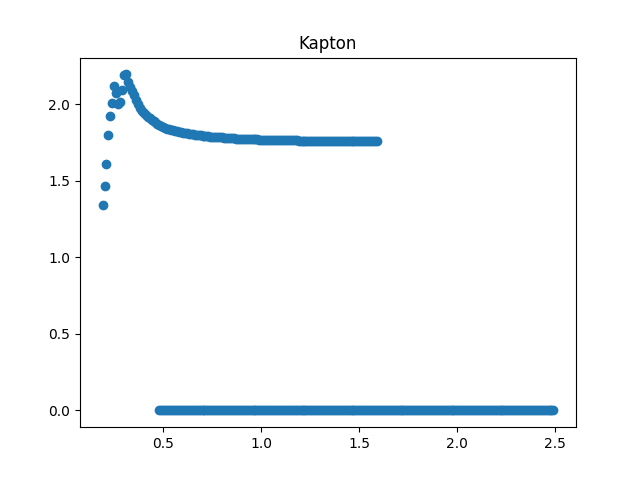
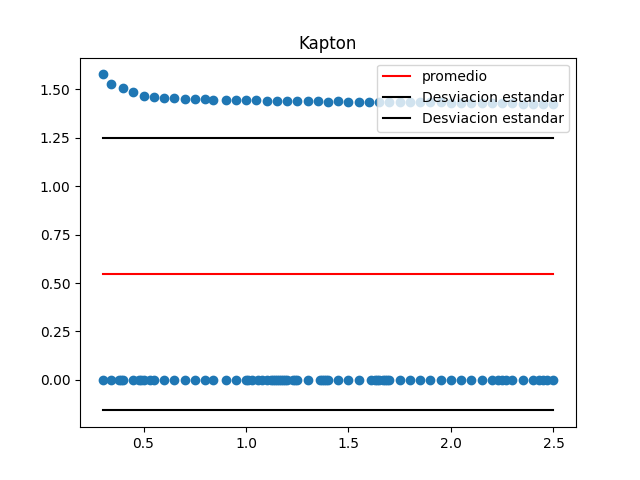
Parte 1

diff --git a/Taller_1 - Parte 1/Indices_refraccion.py b/Taller_1 - Parte 1/Indices_refraccion.py
@@ -1,4 +1,6 @@
 import matplotlib.pyplot as plt
+import numpy as np
+import pandas as pd
 
 def tuplas_longitud_onda(archivo):
     arreglo = []
@@ -20,23 +22,85 @@ def tuplas_longitud_onda(archivo):
     return arreglo
 
 tuplas_plastico = tuplas_longitud_onda('./Plásticos/French.yml')
-#tuplas_plastico = tuplas_longitud_onda('./Combustible/Wang-20C.yml')
+tuplas_plastico = tuplas_longitud_onda('./Combustible/Wang-20C.yml')
+
+
+
+
+#Promedio n
+
+def promedio(n:list):
+    resultado = 0
+
+    for promedio in n:
+        resultado += promedio[1]
+    resultado = resultado/len(n)
+    return resultado
+
+promedio_n = promedio(tuplas_plastico)
+
+#Desviacion estandar de muestra
+def desviacion_estandar(n:list, p):
+
+    suma = 0
+    for i in range(len(n)):
+        resta = (n[i][1] - p)**2
+        suma += resta
+    division = suma/(len(n) - 1)
+    raiz = division**(1/2)
+    return raiz
+
+desviacion_plastico = desviacion_estandar(tuplas_plastico, promedio_n)
+
 
 #Grafica indice de refraccion
 fig,ax = plt.subplots()
 ax.set_title('Kapton')
+rango = np.linspace(min([tuplas[0] for tuplas in tuplas_plastico]),max([tuplas[0] for tuplas in tuplas_plastico]),100)
+ax.plot(rango,np.full_like(rango,promedio_n),color='r',label = 'promedio')
+ax.plot(rango,np.full_like(rango,promedio_n - desviacion_plastico),color='k',label = 'Desviacion estandar')
+ax.plot(rango,np.full_like(rango,promedio_n + desviacion_plastico),color='k',label = 'Desviacion estandar')
 ax.scatter([tuplas[0] for tuplas in tuplas_plastico],[tuplas[1] for tuplas in tuplas_plastico])
-
-#Promedio n
-resultado = 0
-for promedio in tuplas_plastico:
-    resultado += promedio[1]
-resultado = resultado/len(tuplas_plastico)
-print(resultado)
-
-#Desviacion estandar
-
-
-
+ax.legend()
 plt.savefig('Kapton.png')
 
+
+lista_elementos = pd.read_csv('./indices_refraccion.csv')
+
+#Funcion en general
+def funcion_general(lista_elementos:pd.DataFrame):
+
+    
+
+
+    for i in range(len(lista_elementos)):
+        arreglo_general = tuplas_longitud_onda(lista_elementos.iloc[i][0] + '/' + lista_elementos.iloc[i][3].split('/')[-1])
+        promedio_general = promedio(arreglo_general)
+        desviacion_estandar_general = desviacion_estandar(arreglo_general,promedio_general)
+        
+
+        #Graficar y guardar en cada uno
+        fig,ax = plt.subplots()
+        ax.set_title(lista_elementos.iloc[i][0])
+        rango = np.linspace(min([tuplas[0] for tuplas in arreglo_general]),max([tuplas[0] for tuplas in arreglo_general]),100)
+        ax.plot(rango,np.full_like(rango,promedio_general),color='r',label = 'promedio')
+        ax.plot(rango,np.full_like(rango,promedio_general - desviacion_estandar_general),color='k',label = 'Desviacion estandar')
+        ax.plot(rango,np.full_like(rango,promedio_general + desviacion_estandar_general),color='k',label = 'Desviacion estandar')
+        ax.scatter([tuplas[0] for tuplas in arreglo_general],[tuplas[1] for tuplas in arreglo_general])
+        ax.legend()
+        plt.savefig(lista_elementos.iloc[i][0] + '/' + lista_elementos.iloc[i][2] +'.png')
+        plt.close()
+
+funcion_general(lista_elementos=lista_elementos)       
+
+        
+
+       
+
+
+
+
+        
+
+
+   
